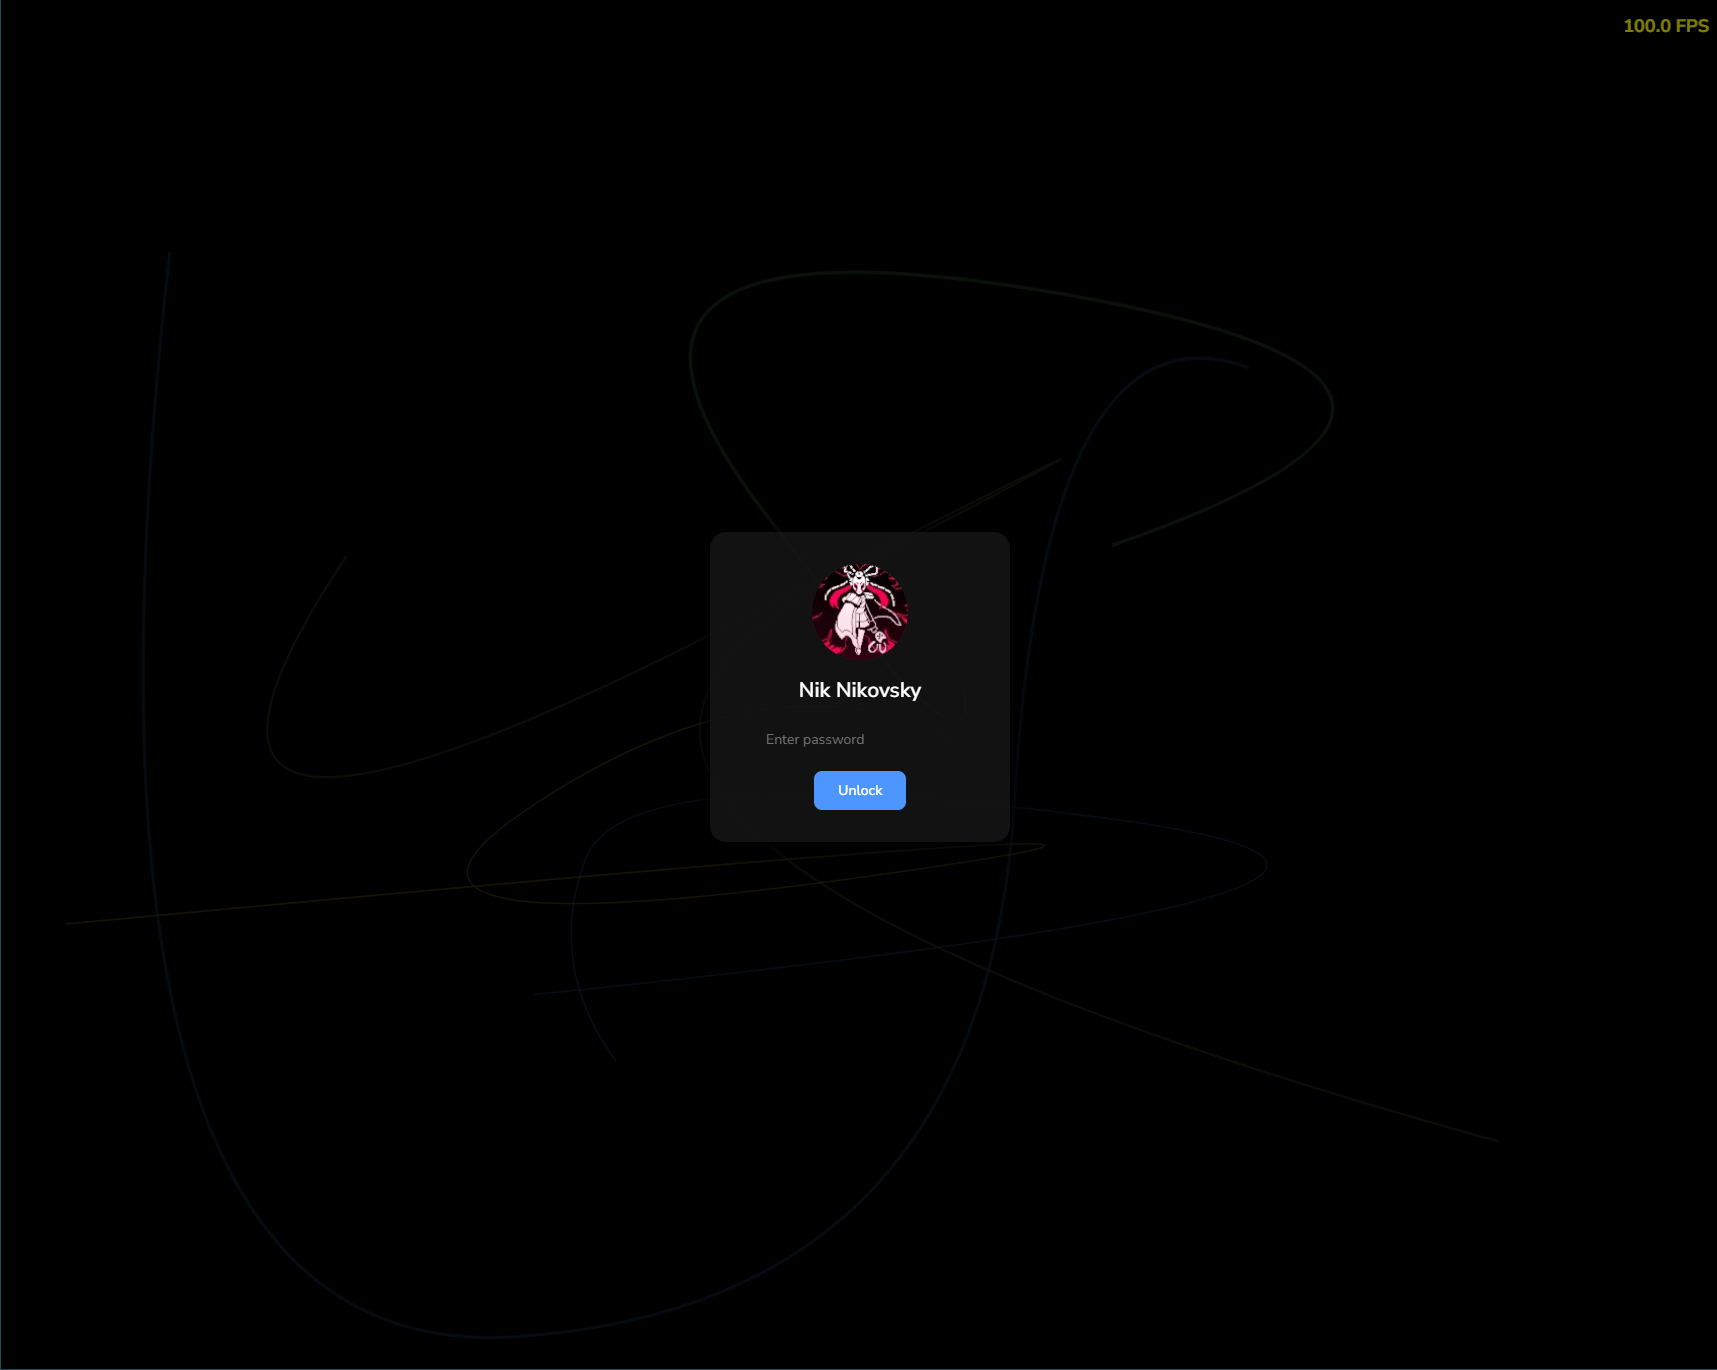
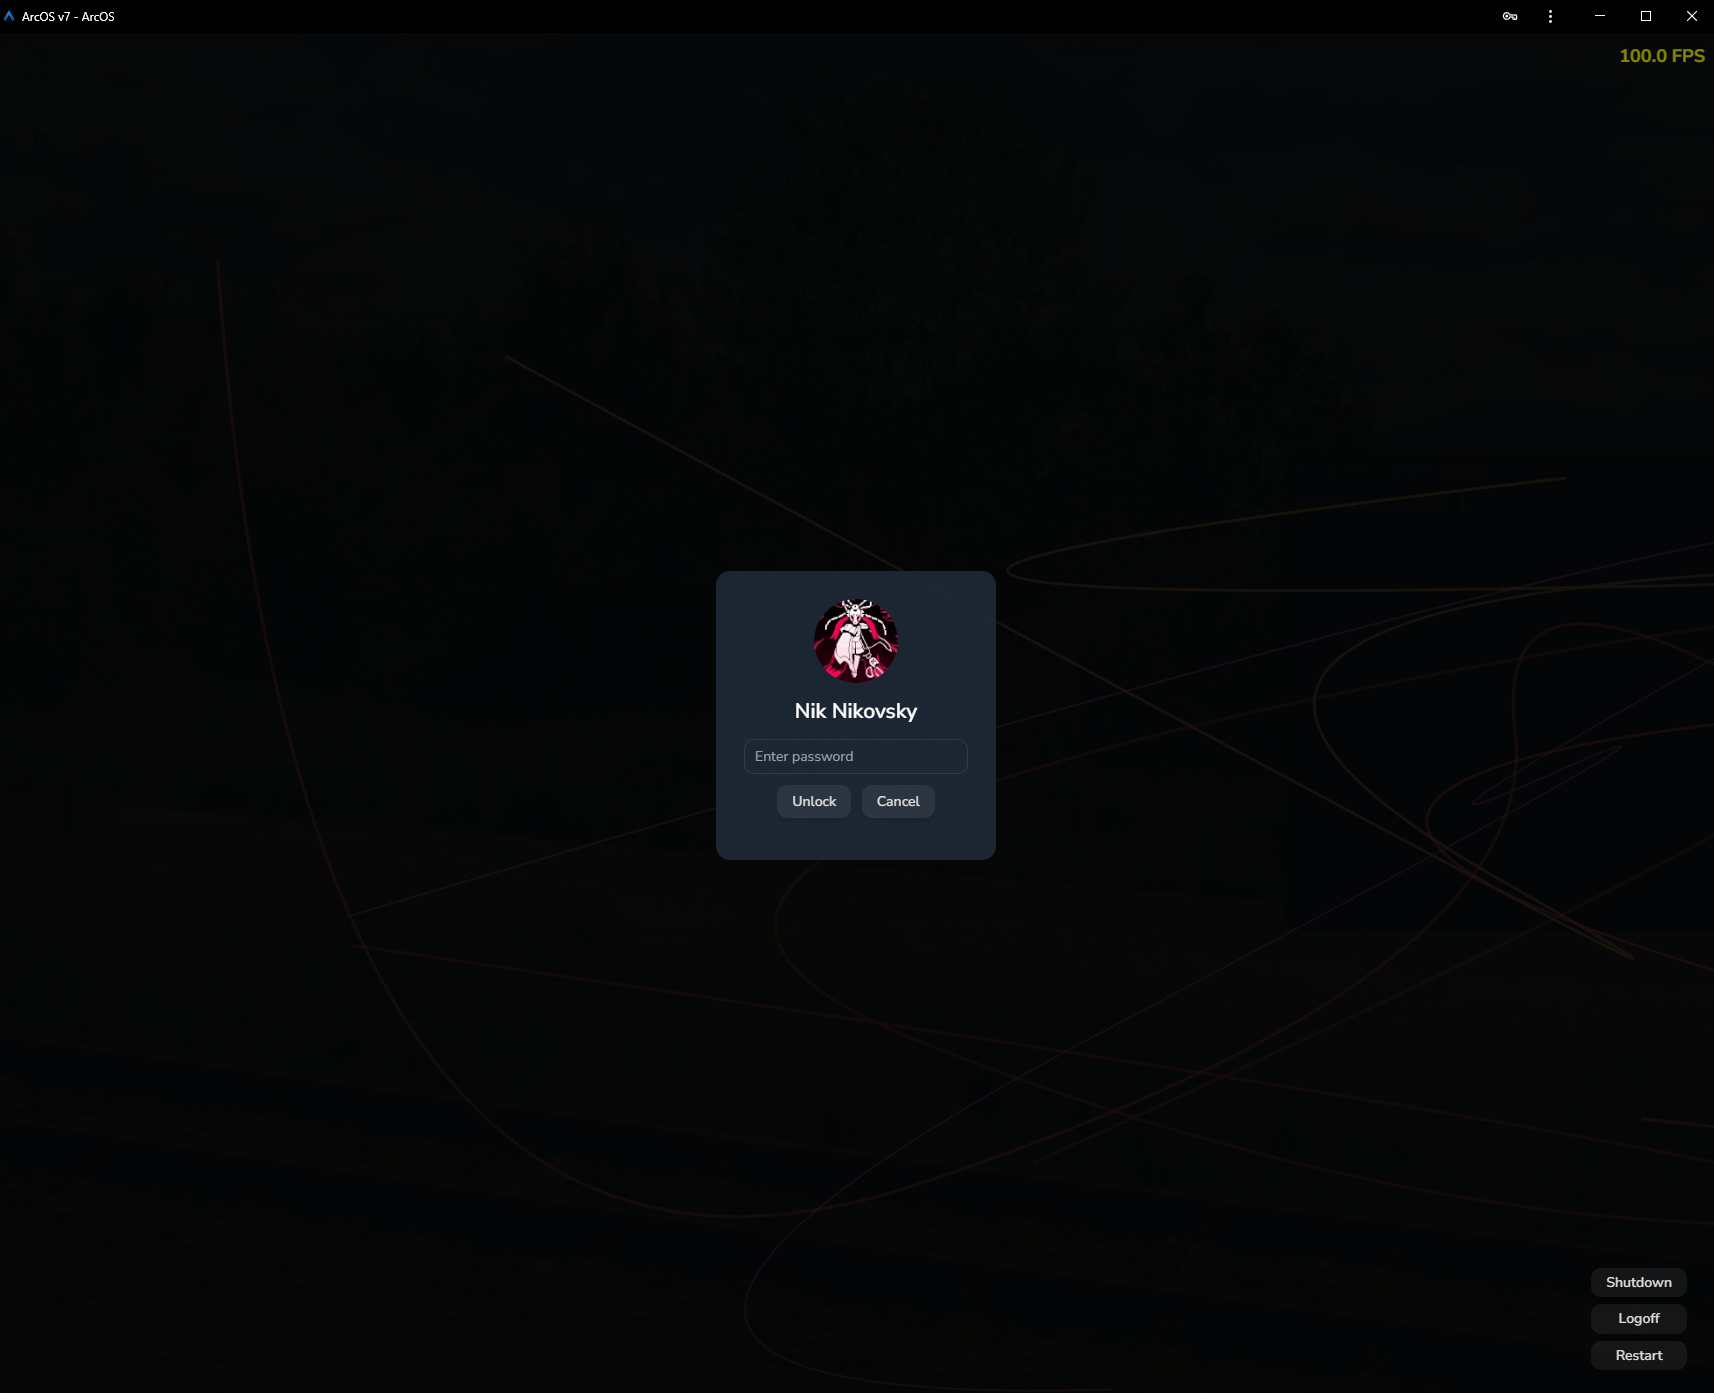
Update stuff

diff --git a/src/README.md b/src/README.md
@@ -1,5 +1,5 @@
-This is a demo more than anything.
+The password is in the application directory as a .hash file, therefore it is case sensitive.
 
-The password is anything you want (but you have to type *something* in, even if it's a space) for now.
+Alt + I for a secret thing (hopefully)
 
 To unlock press "Space".
